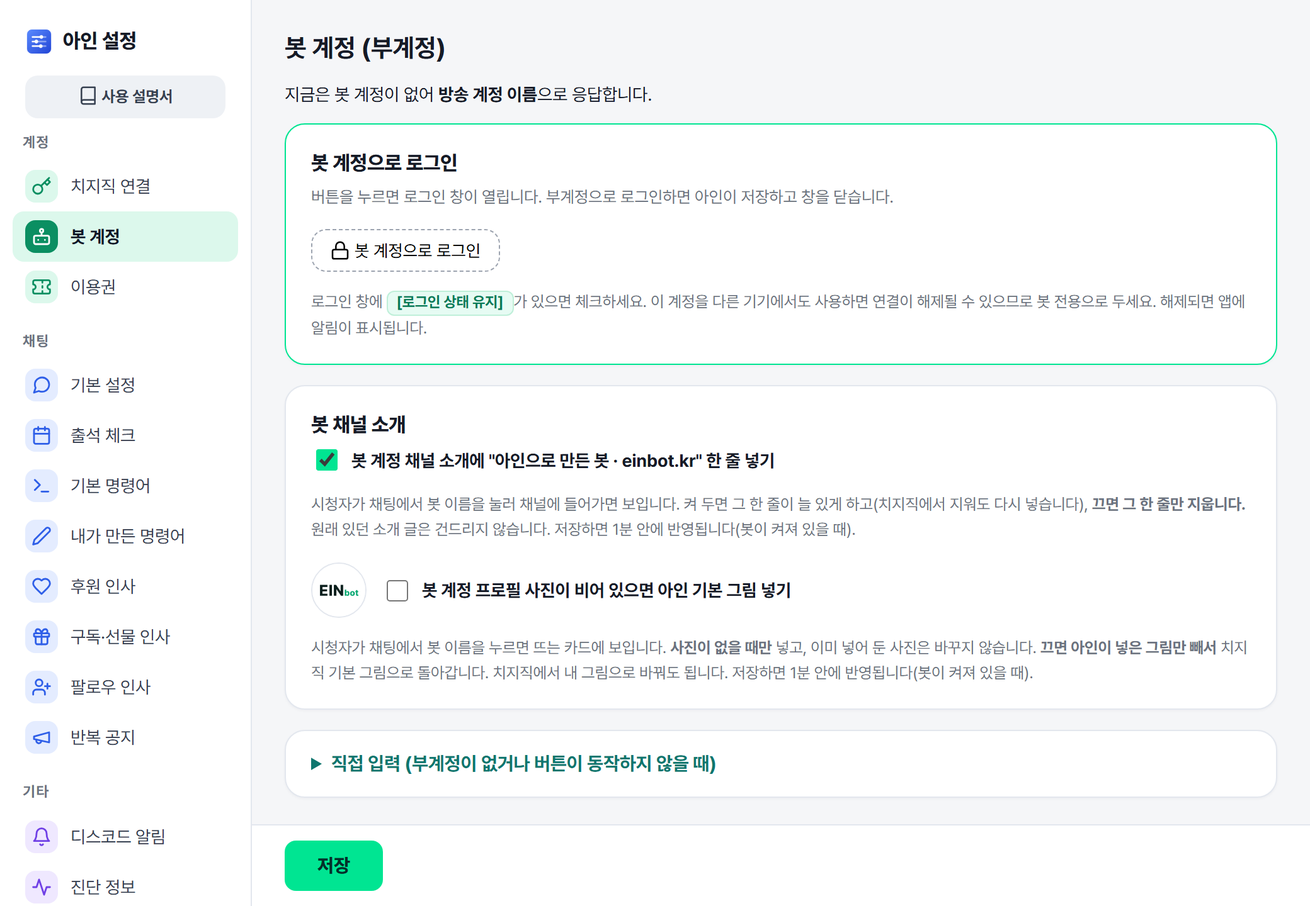
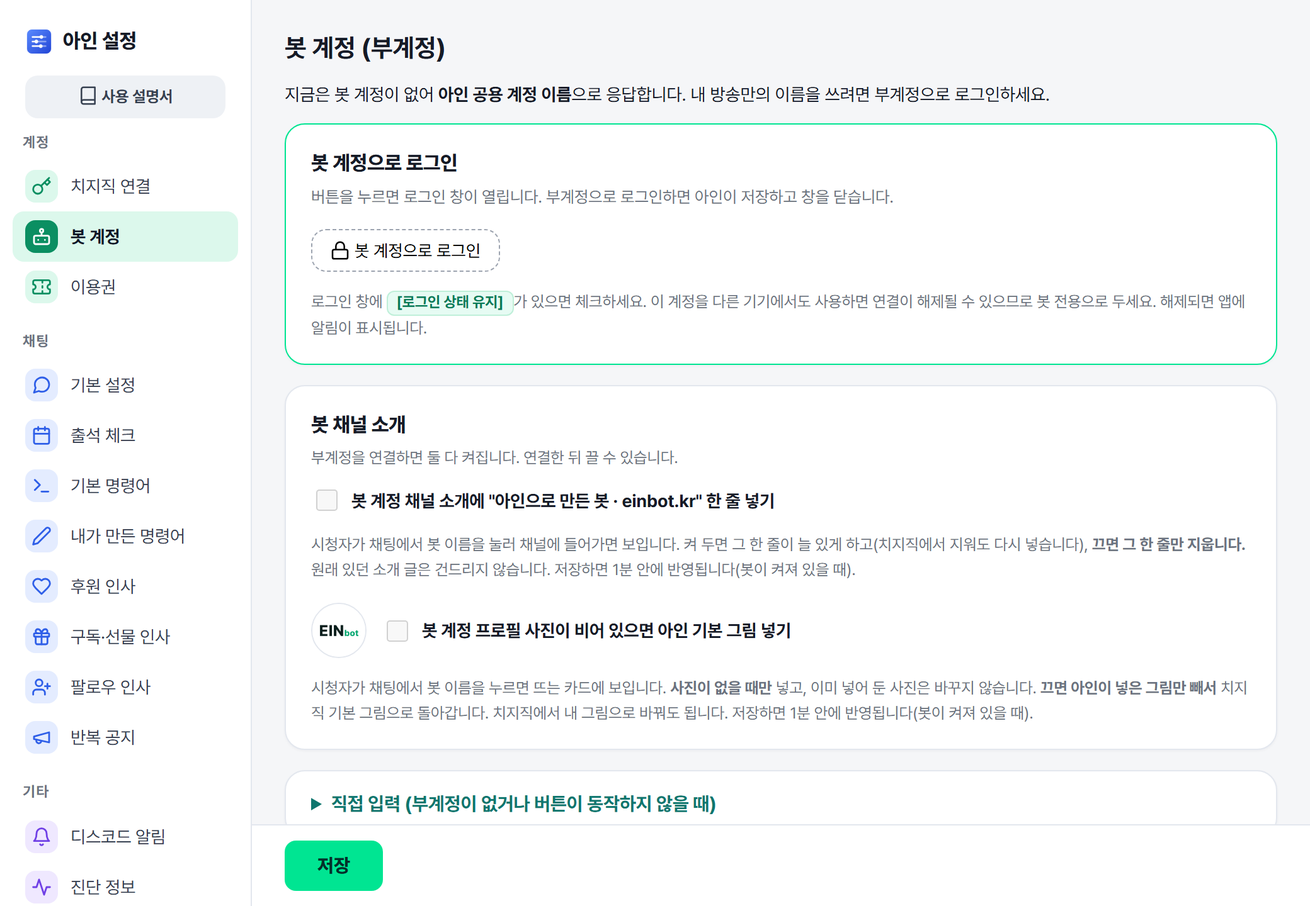
2.6.2 준비: 로그인 풀림 띠·봇 이름 문장·봇 계정 사진 — 문제 해결·업데이트 기록·방침 (게시일은 출시 때 채움, 푸시 안 함)
- 문제 해결: #wizard 를 "치지직 로그인이 풀렸습니다" 띠 설명으로 고침(초기 설정 화면은 한 줄로 남김, 구조화 데이터 같이), 새 항목 #restart("봇을 껐다 켜야 적용됩니다" 띠), #relogin 에 로그인 띠·권한 부족 안내 한 줄, #cookie·#myname 증상과 상태 카드 글자("방송을 켜면 봇 계정 이름으로 응답"), #none 5번에 로그인 띠
- 명령어 가이드 #discord·홈 자주 묻는 질문: 마지막 알림을 보낸 지 30분 안에 다시 켠 방송은 알리지 않음
- 개인정보처리방침: 요약·2항에 공용 연결 확인, 1항에 로그인 풀림을 알리기 위한 기록, 2항 진단 정보에 로그인 풀림·다시 로그인
- 업데이트 기록: 2.6.2 항목
- img/bot-account.png: 2.6.2 화면(부계정 없음 — 두 칸 꺼진 모양과 안내 줄), 같은 구도 2080×1440
- id 없어진 것 0(새 id: restart, v2-6-2), 링크·앵커·그림 깨진 것 0

게시일을 채울 곳(12곳): %게시일% → "2026년 10월 ○일", %ISO% → "2026-10-○○"
- updates/index.html 92(%게시일%)·42(%ISO%)
- guide/troubleshooting/index.html 231(%게시일%)·48(%ISO%)
- guide/commands/index.html 171(%게시일%)·53(%ISO%)
- privacy.html 49(%게시일% — 맨 위 개정 기록)
- sitemap.xml 5·29·41·59·65(%ISO%)

Changed region(s): [[0.2188, 0.6875, 0.9375, 0.9062], [0.2188, 0.5, 0.9375, 0.6562], [0.3438, 0.0938, 0.8125, 0.125]]

diff --git a/privacy.html b/privacy.html
@@ -46,7 +46,7 @@
   </header>
 
   <h1>개인정보처리방침</h1>
-  <p class="updated">시행일: 2026년 8월 27일 · 2026년 9월 21일 개정(1항에 기능 창 설정, 3항에 글꼴 CDN·TITS 연동 항목 추가) · 2026년 9월 23일 개정(1항에 디스코드 웹훅 주소·연결 계정 이름, 3항에 디스코드 연결 항목 추가) · 2026년 9월 25일 개정(1항에 신청곡 대기열·재생 기록, 3항에 유튜브 항목 추가) · 2026년 9월 26일 개정(2항 최초 실행 신호에 초기 설정 진행 단계 추가, 2.1.1부터) · 2026년 9월 27일 개정(2항 진단 정보에 봇을 켜 둔 시간과 끈 까닭 추가, 3항에 Microsoft Store 항목 추가, 2.2부터) · 2026년 9월 27일 개정(1항에 봇 계정 채널 ID와 채널 소개 확인 기록, 3항 치지직에 봇 계정 채널 소개 한 줄 추가, 2.2.5부터) · 2026년 9월 27일 개정(2항에 치지직 로그인·갱신 때 운영자 서버를 거치는 것 추가, 요약·1항·3항 표현 고침, 2.3부터) · 2026년 9월 29일 개정(1항에 봇 계정 기본 그림 확인 기록, 3항 치지직에 봇 계정 기본 그림 추가, 2.3.1부터) · 2026년 10월 2일 개정(1항에 팔로우 인사·알림용 팔로워 식별값, 3항 치지직에 봇 계정으로 팔로워 목록을 읽는 것 추가, 2.5.0부터) · 2026년 10월 2일 개정(1항에 알림 소리 파일, 2항 진단 정보의 사용 횟수에 알림 카드·알림 소리·TTS·오버레이 종류 추가, 2.6.0부터) · 2026년 10월 3일 개정(요약에 채널 식별자·버전 확인·최초 실행 신호를 2항과 같게 적음, 3항 치지직에 받는 권한과 지금 쓰지 않는 권한을 미리 받는 까닭 추가, 3항 글꼴 CDN을 방송 화면 오버레이로 고침)</p>
+  <p class="updated">시행일: 2026년 8월 27일 · 2026년 9월 21일 개정(1항에 기능 창 설정, 3항에 글꼴 CDN·TITS 연동 항목 추가) · 2026년 9월 23일 개정(1항에 디스코드 웹훅 주소·연결 계정 이름, 3항에 디스코드 연결 항목 추가) · 2026년 9월 25일 개정(1항에 신청곡 대기열·재생 기록, 3항에 유튜브 항목 추가) · 2026년 9월 26일 개정(2항 최초 실행 신호에 초기 설정 진행 단계 추가, 2.1.1부터) · 2026년 9월 27일 개정(2항 진단 정보에 봇을 켜 둔 시간과 끈 까닭 추가, 3항에 Microsoft Store 항목 추가, 2.2부터) · 2026년 9월 27일 개정(1항에 봇 계정 채널 ID와 채널 소개 확인 기록, 3항 치지직에 봇 계정 채널 소개 한 줄 추가, 2.2.5부터) · 2026년 9월 27일 개정(2항에 치지직 로그인·갱신 때 운영자 서버를 거치는 것 추가, 요약·1항·3항 표현 고침, 2.3부터) · 2026년 9월 29일 개정(1항에 봇 계정 기본 그림 확인 기록, 3항 치지직에 봇 계정 기본 그림 추가, 2.3.1부터) · 2026년 10월 2일 개정(1항에 팔로우 인사·알림용 팔로워 식별값, 3항 치지직에 봇 계정으로 팔로워 목록을 읽는 것 추가, 2.5.0부터) · 2026년 10월 2일 개정(1항에 알림 소리 파일, 2항 진단 정보의 사용 횟수에 알림 카드·알림 소리·TTS·오버레이 종류 추가, 2.6.0부터) · 2026년 10월 3일 개정(요약에 채널 식별자·버전 확인·최초 실행 신호를 2항과 같게 적음, 3항 치지직에 받는 권한과 지금 쓰지 않는 권한을 미리 받는 까닭 추가, 3항 글꼴 CDN을 방송 화면 오버레이로 고침) · %게시일% 개정(요약·2항에 공용 연결 확인, 1항에 로그인 풀림을 알리기 위한 기록, 2항 진단 정보에 로그인 풀림·다시 로그인 추가, 2.6.2부터)</p>
 
   <p>아인(이하 "프로그램")은 이용자의 개인정보를 소중히 다룹니다. 이 방침은 프로그램과
      운영자가 어떤 정보를 어떻게 처리하는지 설명합니다.</p>
@@ -57,7 +57,7 @@
       <li>프로그램은 <strong>이용자 본인의 컴퓨터에서 실행</strong>됩니다.</li>
       <li>치지직 로그인 정보, 시청자 출석 기록, 설정 등은 <strong>이용자 컴퓨터에만 저장</strong>됩니다. 시청자 출석 기록과 설정은 외부로 전송되지 않습니다.</li>
       <li>2.3부터 치지직 로그인과 하루 한 번의 로그인 갱신은 <strong>운영자 서버를 거쳐</strong> 치지직과 주고받습니다. 서버는 이를 저장하거나 기록하지 않습니다. (직접 발급한 API 키로 쓰는 경우는 거치지 않습니다.)</li>
-      <li>그 밖에 운영자 서버로 전송되는 것은 <strong>이용권 확인에 필요한 최소한의 정보</strong>(치지직 채널 식별자, 연장 코드 또는 주문번호), 새 버전 확인 요청, 그리고 끌 수 있는 진단 정보와 최초 실행 신호입니다.</li>
+      <li>그 밖에 운영자 서버로 전송되는 것은 <strong>이용권 확인에 필요한 최소한의 정보</strong>(치지직 채널 식별자, 연장 코드 또는 주문번호), 새 버전 확인 요청, 공용 연결 확인 요청, 그리고 끌 수 있는 진단 정보와 최초 실행 신호입니다.</li>
       <li>별도의 광고·행태정보 수집을 하지 않습니다. 이 웹사이트의 방문 통계만 네이버 애널리틱스로 익명 집계됩니다.</li>
     </ul>
   </div>
@@ -77,6 +77,7 @@
     <li>봇 계정 기본 그림을 켠 경우 봇 계정의 채널 ID, 아인이 넣은 프로필 사진의 주소, 마지막으로 확인한 시각·결과 (2.3.1)</li>
     <li>팔로우 감사 인사나 팔로우 알림을 켠 경우, 같은 사람을 두 번 알리지 않기 위한 팔로워 식별값(치지직이 붙인 내부 식별값, 최근 3,000개까지. 닉네임은 저장하지 않음) (2.5.0)</li>
     <li>알림 소리에 내 파일을 넣은 경우 그 소리 파일 하나 (2.6.0)</li>
+    <li>치지직 로그인이 풀렸는지 알리기 위한 기록(풀린 때, 방송 계정의 채널 ID, 키 없이 로그인만 하는 방식에서 봇 답에 붙는 이름)과 알림을 이미 띄웠는지. 로그인 정보가 지워진 뒤에도 채널 ID는 남아, 다시 로그인할 때 전과 같은 계정인지 견주는 데 씁니다. (2.6.2)</li>
   </ul>
   <p class="muted">이 정보들은 이용자가 프로그램을 삭제하면 함께 제거됩니다(이용권 관련 최소 기록은 예외 — 아래 4항 참고).</p>
 
@@ -86,13 +87,16 @@
     <li><strong>치지직 로그인과 로그인 갱신 시 (2.3부터, 키 없이 로그인만 하는 방식)</strong>: 치지직이 로그인 뒤 돌려주는 인증 코드와, 하루 한 번 로그인을 갱신할 때의 갱신 토큰. 치지직이 앱마다 주는 비밀 키(Client Secret)를 프로그램 안에 넣어 둘 수 없어, 운영자 서버가 그 키를 붙여 치지직에 대신 요청하고 받은 로그인 정보(액세스·리프레시 토큰)를 그대로 프로그램에 돌려줍니다.
         <strong>운영자 서버는 이 값들을 저장하지도 기록하지도 않으며</strong>, 로그인 정보는 이용자 컴퓨터에만 남습니다. 채팅을 읽고 쓰는 등 그 밖의 통신은 이용자 컴퓨터와 치지직 사이에서 바로 이루어집니다.
         직접 발급한 API 키로 쓰는 경우에는 이 전송이 없습니다.</li>
+    <li><strong>공용 연결 확인 시 (키 없이 로그인만 하는 방식)</strong>: 로그인할 때, 그리고 2.6.2부터는 봇을 켤 때와 그 뒤 한 시간에 한 번, 설정 창·초기 설정 창을 열 때 지금 쓰는 공용 앱 정보(앱 ID, 로그인 뒤 돌아올 주소, 봇 답에 붙는 이름)를 묻습니다. 운영자가 등록한 앱이 바뀌었을 때 다시 로그인하라고 알리고, 봇 계정 없이 보낸 답이 어떤 이름으로 나가는지 보여 주기 위한 것입니다. 요청에 개인을 식별하는 정보는 포함되지 않습니다.
+        직접 발급한 API 키로 쓰는 경우에는 묻지 않습니다.</li>
     <li><strong>연장 코드 등록 시</strong>: 입력한 연장 코드. 코드의 정당성과 최초 사용 여부를 확인하기 위함입니다.</li>
     <li><strong>주문번호 등록 시</strong>: 입력한 스마트스토어 주문번호. 결제 완료 여부를 확인하기 위함입니다.</li>
     <li><strong>버전 확인 시</strong>: 새 버전 여부를 확인하기 위한 요청. 개인을 식별하는 정보는 포함되지 않습니다.</li>
     <li><strong>이용권 동기화 시</strong>: 치지직 채널 식별자. 프로그램을 재설치해도 무료 체험 기간과 구매한 이용권이
         그대로 이어지도록 하기 위한 것으로, 이 목적 외에는 사용되지 않습니다.</li>
     <li><strong>진단 정보 전송 시 (1.7.1부터)</strong>: 프로그램 버전, 봇의 시작·연결 상태, 오류 메시지, 치지직 안내 이벤트의 종류 번호와
-        닉네임을 가린 안내문, 명령어·기능 종류별 사용 횟수(투표·추첨·룰렛·TITS·알림 카드 종류·알림 소리·TTS, OBS에 넣은 오버레이의 종류 등), 후원 금액 구간, 치지직 채널 식별자, 봇을 끌 때 켜 둔 시간과 끈 까닭(직접 끔·컴퓨터 종료·자동 업데이트, 2.2부터). 오류의 원인을 찾기 위한 것으로,
+        닉네임을 가린 안내문, 명령어·기능 종류별 사용 횟수(투표·추첨·룰렛·TITS·알림 카드 종류·알림 소리·TTS, OBS에 넣은 오버레이의 종류 등), 후원 금액 구간, 치지직 채널 식별자, 봇을 끌 때 켜 둔 시간과 끈 까닭(직접 끔·컴퓨터 종료·자동 업데이트, 2.2부터. 다시 로그인, 2.6.2부터).
+        2.6.2부터는 치지직 로그인이 풀렸는지(봇을 켤 때인지 켜 둔 동안인지와 오류 번호), 다시 로그인한 정보로 이어 썼는지, 키 없이 로그인만 하는 방식에서 내 로그인이 지금 쓰는 공용 앱으로 받은 것인지 그 전 앱으로 받은 것인지도 보냅니다. 로그인 정보(토큰)·앱 ID·봇 답에 붙는 이름은 보내지 않습니다. 오류의 원인을 찾기 위한 것으로,
         <strong>채팅 내용·시청자 닉네임·후원 메시지·API 키·로그인 쿠키·출석 기록은 포함되지 않습니다.</strong>
         설정 화면의 [진단 정보 보내기]를 끄면 전송되지 않습니다.</li>
     <li><strong>최초 실행 신호 (1.8.0부터)</strong>: 앱을 처음 실행할 때 이 컴퓨터에서 만든 무작위 설치 식별자와 프로그램 버전, 스토어 설치 여부를 한 번 전송합니다.

diff --git a/guide/troubleshooting/index.html b/guide/troubleshooting/index.html
@@ -45,7 +45,7 @@
       "description": "아인이 반응이 없거나, 권한이 빠졌다고 나오거나, 봇 계정 연결이 끊겼을 때 증상별 원인과 해결 순서.",
       "inLanguage": "ko-KR",
       "datePublished": "2026-09-09",
-      "dateModified": "2026-10-03",
+      "dateModified": "%ISO%",
       "mainEntityOfPage": "https://einbot.kr/guide/troubleshooting/",
       "image": "https://einbot.kr/og.png?v=2",
       "author": { "@id": "https://einbot.kr/#org" },
@@ -108,7 +108,7 @@
         {
           "@type": "Question",
           "name": "봇이 봇 이름이 아니라 내 이름으로 대답해요",
-          "acceptedAnswer": { "@type": "Answer", "text": "방송 전이면 정상입니다. 상태 카드가 '방송 계정 이름으로 응답'이어도 방송을 시작하면 봇 이름으로 바뀝니다. 봇이 켜진 채로 부계정을 연결했다면 봇을 껐다 켜고, '봇 계정 연결 끊김' 띠가 있으면 설정 → 봇 계정에서 다시 로그인합니다." }
+          "acceptedAnswer": { "@type": "Answer", "text": "방송 전이면 정상입니다. 상태 카드에 '방송을 켜면 봇 계정 이름으로 응답'이 보이고, 방송을 시작하면 봇 이름으로 바뀝니다. 직접 발급한 키로 쓰면 '방송 계정 이름으로 응답'으로 보입니다. 봇이 켜진 채로 부계정을 연결했다면 봇을 껐다 켜고, '봇 계정 연결 끊김' 띠가 있으면 설정 → 봇 계정에서 다시 로그인합니다." }
         },
         {
           "@type": "Question",
@@ -127,8 +127,8 @@
         },
         {
           "@type": "Question",
-          "name": "초기 설정 화면이 다시 열려요",
-          "acceptedAnswer": { "@type": "Answer", "text": "치지직 연결 방식이나 API 키를 바꿨거나, 치지직 로그인이 만료되면 이 화면이 나옵니다. 안내대로 방송 계정으로 다시 로그인하면 되고, 출석 기록과 명령어·문구 설정은 그대로 남아 있습니다." }
+          "name": "\"치지직 로그인이 풀렸습니다\" 띠가 떠요 / 초기 설정 화면이 다시 열려요",
+          "acceptedAnswer": { "@type": "Answer", "text": "아인 창의 띠나 [시작]을 누르고 방송 계정으로 다시 로그인합니다. 동의 화면의 항목은 모두 켠 채 [동의]를 누릅니다. 전과 다른 계정으로 로그인하면 바꾸지 않고 알려 줍니다. 출석 기록과 설정은 그대로입니다. 초기 설정 화면이 다시 열렸다면 안내대로 방송 계정으로 다시 로그인합니다." }
         },
         {
           "@type": "Question",
@@ -228,7 +228,7 @@
       <p class="eyebrow">문제 해결 가이드</p>
       <h1>치지직 채팅봇이 안 될 때 확인할 것</h1>
       <p class="lead">봇은 방송 중에만 채팅에 답합니다.</p>
-      <p class="meta">2026년 10월 3일 고침</p>
+      <p class="meta">%게시일% 고침</p>
 
       <div class="toc">
         <b>차례</b>
@@ -253,7 +253,8 @@
           <li><a href="#tits">TITS가 "연결되지 않음"이에요</a></li>
           <li><a href="#roulette">후원 룰렛을 껐는데 돌아요 / 켜지 않았는데 돌아요</a></li>
           <li class="grp">설치·로그인·이용권</li>
-          <li><a href="#wizard">초기 설정 화면이 다시 열려요</a></li>
+          <li><a href="#wizard">"치지직 로그인이 풀렸습니다" 띠가 떠요 / 초기 설정 화면이 다시 열려요</a></li>
+          <li><a href="#restart">"봇을 껐다 켜야 적용됩니다" 띠가 떠요</a></li>
           <li><a href="#white">로그인하다가 하얀 화면에서 멈춰요</a></li>
           <li><a href="#license">무료 체험이 끝났다고 나와요</a></li>
           <li><a href="#quit">창을 닫아도 봇이 계속 돌아요</a></li>
@@ -274,7 +275,7 @@
           <li>방송 중인지 봅니다. 치지직 채팅은 방송 중에만 열립니다.</li>
           <li>명령어 앞에 <code>!</code>를 붙였는지 봅니다. 출석 인사말은 기본 "안녕하세요", "O하"입니다.</li>
           <li>체험·이용권 기간이 남았는지 설정 → 이용권에서 봅니다.</li>
-          <li>아인 창에 "○○ 권한이 빠져 …" 노란 띠가 있으면 <a href="#scope">다음 항목</a>을 봅니다.</li>
+          <li>아인 창에 노란 띠가 있는지 봅니다. "○○ 권한이 빠져 …"는 <a href="#scope">다음 항목</a>, "치지직 로그인이 풀렸습니다"는 <a href="#wizard">로그인 항목</a>을 봅니다.</li>
         </ol>
       </div>
 
@@ -288,6 +289,7 @@
           <li>봇이 켜져 있었다면 아인 창에서 [중지] 뒤 [시작]을 누릅니다.</li>
         </ol>
       </div>
+      <p>아인 창에 <a href="#wizard">로그인 띠</a>가 떠 있으면 그 띠를 눌러도 됩니다. "권한이 부족해 로그인을 마치지 못했습니다"가 나오면 동의 화면의 항목을 모두 켠 채 다시 로그인합니다.</p>
       <p>직접 발급한 키로 쓰는 분 → <a href="/guide/install/#step3">설치 가이드의 API 키 안내</a></p>
 
       <h2 id="sub">후원 인사는 되는데 구독 인사만 안 나가요</h2>
@@ -302,7 +304,7 @@
       <p>자세한 조건은 <a href="/guide/donation/#sub">후원·구독·팔로우 인사 가이드</a>에 있습니다.</p>
 
       <h2 id="cookie">"봇 계정 연결 끊김" 알림이 떠요</h2>
-      <p class="sym">증상: 아인 창 위에 노란 띠가 뜨고, 봇이 내 이름으로 답합니다.</p>
+      <p class="sym">증상: 아인 창 위에 노란 띠가 뜨고, 봇이 봇 이름이 아닌 다른 이름으로 답합니다.</p>
       <div class="fix">
         <b>해결</b>
         <ol>
@@ -314,11 +316,11 @@
       <p>네이버의 "새로운 기기 로그인" 알림은 봇입니다. [로그아웃]을 누르지 마세요.</p>
 
       <h2 id="myname">봇 이름이 아니라 내 이름으로 대답해요</h2>
-      <p class="sym">증상: 부계정을 연결했는데 채팅에 내 닉네임으로 답이 올라옵니다.</p>
+      <p class="sym">증상: 부계정을 연결했는데 채팅에 아인 공용 계정 이름으로 답이 올라옵니다. 직접 발급한 키로 쓰면 내 닉네임으로 올라옵니다.</p>
       <div class="fix">
         <b>확인</b>
         <ol>
-          <li>방송 전이면 정상입니다. 상태 카드가 "방송 계정 이름으로 응답"이어도 방송을 시작하면 봇 이름으로 바뀝니다.</li>
+          <li>방송 전이면 정상입니다. 상태 카드에 "방송을 켜면 봇 계정 이름으로 응답"이 보이고, 방송을 시작하면 봇 이름으로 바뀝니다. 직접 발급한 키로 쓰면 "방송 계정 이름으로 응답"으로 보입니다.</li>
           <li>봇이 켜진 채로 부계정을 연결했다면 아인 창에서 [중지] 뒤 [시작]을 누릅니다.</li>
           <li>"봇 계정 연결 끊김" 띠가 있으면 <a href="#cookie">위 항목</a>대로 다시 로그인합니다.</li>
           <li>부계정을 연결한 적이 없다면 <a href="/guide/install/#step5">설치 가이드의 "봇 이름 정하기"</a>부터 합니다.</li>
@@ -464,16 +466,29 @@
         </ol>
       </div>
 
-      <h2 id="wizard">초기 설정 화면이 다시 열려요</h2>
-      <p class="sym">증상: 잘 쓰던 아인을 켰는데 "초기 설정" 화면이 다시 나옵니다.</p>
+      <h2 id="wizard">"치지직 로그인이 풀렸습니다" 띠가 떠요 / 초기 설정 화면이 다시 열려요</h2>
+      <p class="sym">증상: 아인 창에 노란 띠가 뜨고 상태 카드에 "로그인이 필요합니다"가 보입니다.</p>
       <div class="fix">
         <b>해결</b>
         <ol>
-          <li>안내대로 방송 계정으로 다시 로그인합니다. API 키를 새로 받을 필요는 없습니다.</li>
-          <li>출석 기록과 명령어·문구 설정은 그대로 남아 있습니다.</li>
+          <li>띠나 [시작]을 누릅니다. 로그인 창이 열립니다.</li>
+          <li><b>방송 계정으로</b> 로그인하고, 동의 화면의 항목을 모두 켠 채 [동의]를 누릅니다.</li>
+          <li>띠가 사라지면 끝입니다. 봇이 꺼져 있으면 [시작]을 누릅니다.</li>
         </ol>
       </div>
-      <p>치지직 연결 방식이나 API 키를 바꿨거나, 치지직 로그인이 만료되면 이 화면이 나옵니다.</p>
+      <p>전과 다른 계정으로 로그인하면 바꾸지 않고 알려 줍니다. 출석 기록과 설정은 그대로입니다.</p>
+      <p>"초기 설정" 화면이 다시 열렸다면 안내대로 방송 계정으로 다시 로그인합니다. 예전 버전이거나, 직접 발급한 키를 지운 뒤 다시 로그인하지 않았을 때 나옵니다.</p>
+
+      <h2 id="restart">"봇을 껐다 켜야 적용됩니다" 띠가 떠요</h2>
+      <p class="sym">증상: 아인 창에 "방송 계정을 다시 로그인했습니다. 봇을 껐다 켜야 적용됩니다." 노란 띠가 뜹니다.</p>
+      <div class="fix">
+        <b>해결</b>
+        <ol>
+          <li>아인 창에서 [중지]를 누릅니다.</li>
+          <li>[시작]을 누릅니다. 띠가 사라지면 끝입니다.</li>
+        </ol>
+      </div>
+      <p>봇을 켠 채 설정 → 치지직 연결에서 다시 로그인하면 뜹니다.</p>
 
       <h2 id="white">로그인하다가 하얀 화면에서 멈춰요</h2>
       <p class="sym">증상: 직접 발급한 키로 쓰는데, 로그인 마지막 단계에서 하얀 화면만 나옵니다.</p>

diff --git a/updates/index.html b/updates/index.html
@@ -39,7 +39,7 @@
   "inLanguage": "ko-KR",
   "isPartOf": { "@id": "https://einbot.kr/#website" },
   "about": { "@id": "https://einbot.kr/#app" },
-  "dateModified": "2026-10-02",
+  "dateModified": "%ISO%",
   "breadcrumb": {
     "@type": "BreadcrumbList",
     "itemListElement": [
@@ -88,7 +88,21 @@
       <p class="lead">버전별로 무엇이 바뀌었는지 날짜와 함께 적습니다. 최신이 맨 위입니다.</p>
       <p class="how">2.2.3부터는 새 버전이 나오면 아인이 방송하지 않는 동안 스스로 설치하고 잠깐 뒤 다시 켜집니다. 켜져 있던 봇도 다시 켭니다. 2.1.1 이하는 Microsoft Store가 아인을 완전히 끈 뒤에 설치하니, 알림 영역에서 [앱 종료]한 다음 Microsoft Store 앱 → 라이브러리 → [업데이트 받기]를 누르세요. 고치고 싶은 점이나 필요한 기능은 <a href="/discord/">디스코드 문의 서버</a>나 <a href="mailto:einbot.help@gmail.com">einbot.help@gmail.com</a>으로 알려 주시면 됩니다.</p>
 
-      <section class="ver latest" id="v2-6-1">
+      <section class="ver latest" id="v2-6-2">
+        <h2>2.6.2 <span class="date">%게시일%</span></h2>
+        <p class="pkg">스토어 버전 2.6.2.0</p>
+        <ul>
+          <li><b>치지직 로그인이 풀리면 알려 줍니다.</b> 아인 창에 노란 띠가 뜨고 알림이 한 번 옵니다. 띠나 [시작]을 누르면 로그인 창이 열리고, 다시 로그인하면 켜져 있던 봇이 다시 켜집니다. 전에는 안내 없이 봇이 멈췄습니다. <a href="/guide/troubleshooting/#wizard">다시 로그인하는 법</a></li>
+          <li>로그인이 풀린 채 컴퓨터를 켜도 아인이 알림 영역에 남아 알려 줍니다. 전에는 아무것도 뜨지 않았습니다.</li>
+          <li>다시 로그인할 때 전과 다른 계정으로 로그인하면 바꾸지 않고 알려 줍니다. 봇을 켠 채 설정 창에서 다시 로그인하면 "봇을 껐다 켜야 적용됩니다" 띠가 뜹니다.</li>
+          <li><b>부계정 없이 쓸 때 봇 답이 나가는 이름 안내를 바로잡았습니다.</b> 키 없이 로그인하는 방식에서 부계정이 없으면, 봇 답은 방송 계정이 아니라 아인 공용 계정 이름으로 나갑니다. 직접 발급한 API 키로 쓰면 전처럼 방송 계정 이름입니다. 내 방송만의 이름을 쓰려면 부계정을 연결합니다. <a href="/guide/install/#step5">봇 이름 정하는 법</a></li>
+          <li>설정 → 봇 계정의 "봇 채널 소개" 두 칸은 부계정을 연결하기 전에는 꺼진 모양이고, 연결하면 둘 다 켜집니다. 전에는 연결하기 전에도 소개 한 줄 칸이 켜져 보였습니다.</li>
+          <li>출석 횟수 보정은 봇이 켜져 있어도 [적용]하면 바로 반영됩니다.</li>
+          <li>시청자가 채팅에 쓴 글 때문에 아인 창의 알림이 잘못 뜰 수 있던 것을 고쳤습니다. 후원 룰렛·알림 오버레이·디스코드 알림의 안내 문구도 실제 동작에 맞게 고쳤습니다.</li>
+        </ul>
+      </section>
+
+      <section class="ver" id="v2-6-1">
         <h2>2.6.1 <span class="date">2026년 10월 3일</span></h2>
         <p class="pkg">스토어 버전 2.6.1.0</p>
         <ul>

diff --git a/guide/commands/index.html b/guide/commands/index.html
@@ -50,7 +50,7 @@
       "description": "아인의 기본 명령어, 방장·매니저 전용 명령어, 내가 만든 명령어 추가 방법, 치환자, 문구·이름·대기시간 설정, 반복 공지, 디스코드 알림.",
       "inLanguage": "ko-KR",
       "datePublished": "2026-09-06",
-      "dateModified": "2026-10-03",
+      "dateModified": "%ISO%",
       "mainEntityOfPage": "https://einbot.kr/guide/commands/",
       "image": "https://einbot.kr/og.png?v=2",
       "author": { "@id": "https://einbot.kr/#org" },
@@ -168,7 +168,7 @@
       <p class="eyebrow">명령어 가이드</p>
       <h1>치지직 채팅봇 명령어 목록과 설정 방법</h1>
       <p class="lead">기본 명령어는 바로 됩니다. 새 명령어는 채팅에 <code>!명령어추가 이름 내용</code>으로 만듭니다.</p>
-      <p class="meta">2026년 10월 3일 고침</p>
+      <p class="meta">%게시일% 고침</p>
 
       <div class="toc">
         <b>차례</b>
@@ -282,7 +282,7 @@
         <li>[테스트 보내기]를 눌러 디스코드에 메시지가 오는지 봅니다.</li>
         <li>"방송 시작을 디스코드에 알림"을 켜고 [저장]합니다.</li>
       </ol>
-      <p>같은 방송은 한 번만 알립니다. 봇을 방송 10분 뒤에 켰거나, 끊긴 방송을 30분 안에 다시 시작하면 알리지 않습니다. 방송 종료는 알리지 않습니다.</p>
+      <p>같은 방송은 한 번만 알립니다. 봇을 방송 시작 10분 뒤에 켜면 알리지 않습니다. 마지막 알림을 보낸 지 30분 안에 방송을 다시 켜도 알리지 않습니다. 방송 종료는 알리지 않습니다.</p>
       <p>보내지 못해 아인 창에 노란 띠가 뜨면, 웹훅을 다시 만들어 주소를 새로 넣습니다. 웹훅 주소는 내 컴퓨터에만 저장되고, 디스코드로 보내는 내용은 <a href="/privacy.html">개인정보처리방침</a>에 있습니다.</p>
 
       <h2 id="faq">자주 묻는 것</h2>

diff --git a/index.html b/index.html
@@ -604,7 +604,7 @@
       </details>
       <details class="reveal">
         <summary>방송 시작을 디스코드에 알릴 수 있나요?</summary>
-        <p>됩니다. 설정 → [디스코드 알림]에 디스코드 채널의 웹훅 주소를 넣고 켜 두면, 방송이 시작될 때 제목·카테고리·썸네일 카드를 한 번 보냅니다. 디스코드 봇을 따로 만들거나 서버를 켜 둘 필요가 없어요. 봇을 방송 시작 10분 뒤에 켜면 보내지 않고, 방송이 잠깐 끊겼다 30분 안에 다시 시작해도 다시 보내지 않습니다. (1.9.3부터)</p>
+        <p>됩니다. 설정 → [디스코드 알림]에 디스코드 채널의 웹훅 주소를 넣고 켜 두면, 방송이 시작될 때 제목·카테고리·썸네일 카드를 한 번 보냅니다. 디스코드 봇을 따로 만들거나 서버를 켜 둘 필요가 없어요. 봇을 방송 시작 10분 뒤에 켜면 보내지 않고, 마지막 알림을 보낸 지 30분 안에 방송을 다시 켜도 보내지 않습니다. (1.9.3부터)</p>
       </details>
       <details class="reveal">
         <summary>환불이 되나요?</summary>
